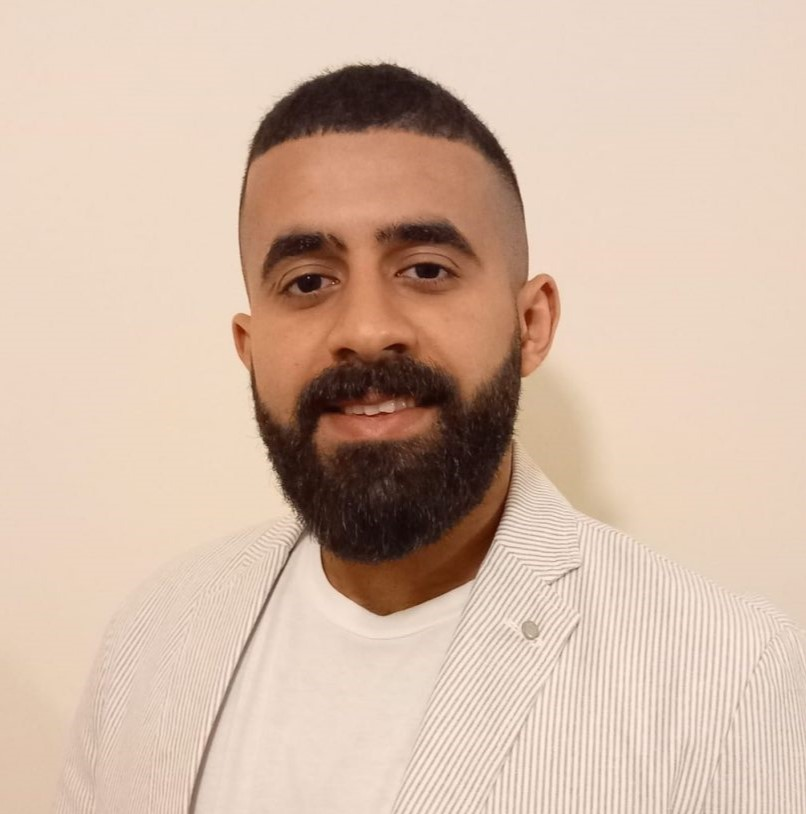
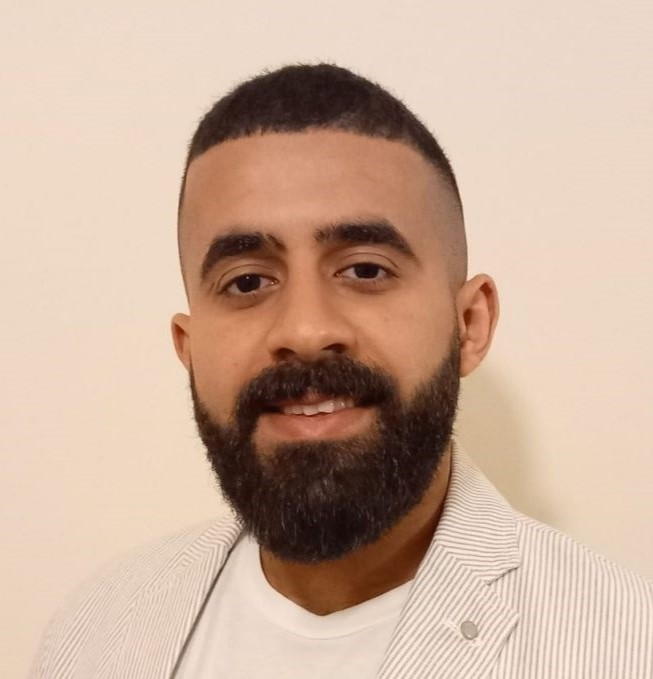
-added new coordinator

diff --git a/contact/contact.css b/contact/contact.css
@@ -10,7 +10,7 @@
     --white: #ffffff;
     --text-primary: #1a1a2e;
     --text-secondary: #555555;
-    --accent-gold: #c9a84c;
+    --accent-gold: #faa237;
     --border: #e0e4ec;
     --shadow-sm: 0 2px 8px rgba(0, 0, 0, 0.06);
     --shadow-md: 0 8px 24px rgba(0, 0, 0, 0.08);
@@ -463,137 +463,77 @@ a.quick-card-link:hover {
     margin-top: 60px;
 }
 
-.coordinator-cards {
-    display: grid;
-    grid-template-columns: repeat(2, 1fr);
-    gap: 32px;
-    max-width: 800px;
-    margin: 0 auto;
+.coordinator-cards{
+    display:grid;
+    grid-template-columns:repeat(3,3fr);
+    gap:30px;
+    max-width:1500px;
+    margin:0;
 }
 
-.coordinator-card {
-    background: var(--white);
-    border-radius: var(--radius-md);
-    overflow: hidden;
-    box-shadow: var(--shadow-card);
-    transition: var(--transition);
-    border: 1px solid var(--border);
+.coordinator-card{
+    display:flex;
+    align-items:center;
+    gap:20px;
+    background:white;
+    padding:20px;
+    border-radius:16px;
+    box-shadow:0 6px 20px rgba(0,0,0,0.06);
+    transition:0.3s ease;
 }
 
-.coordinator-card:hover {
-    transform: translateY(-6px);
-    box-shadow: var(--shadow-lg);
+.coordinator-card:hover{
+    transform:translateY(-4px);
+    box-shadow:0 12px 35px rgba(0,0,0,0.12);
 }
 
-.coordinator-card-top {
-    position: relative;
-    height: 140px;
-    overflow: visible;
+.coordinator-photo{
+    width:120px;
+    height:120px;
+    flex-shrink:0;
+    border-radius:14px;
+    overflow:hidden;
 }
 
-.coordinator-pattern {
-    position: absolute;
-    inset: 0;
-    background-size: cover;
-    background-position: center;
-    opacity: 0.25;
-    overflow: hidden;
+.coordinator-photo img{
+    width:100%;
+    height:100%;
+    object-fit:cover;
 }
 
-.coordinator-card-top::after {
-    content: '';
-    position: absolute;
-    inset: 0;
-    background: linear-gradient(135deg, var(--primary), var(--primary-light));
-    opacity: 0.9;
+.coordinator-info h3{
+    font-size:18px;
+    margin-bottom:4px;
 }
 
-.coordinator-avatar {
-    position: absolute;
-    bottom: -32px;
-    left: 50%;
-    transform: translateX(-50%);
-    z-index: 2;
-    width: 72px;
-    height: 72px;
-    border-radius: 50%;
-    background: var(--primary);
-    border: 4px solid var(--white);
-    display: flex;
-    align-items: center;
-    justify-content: center;
-    box-shadow: var(--shadow-md);
+.coordinator-role{
+    font-size:14px;
+    color:#013b7c;
+    font-weight:600;
 }
 
-.coordinator-avatar img {
-    width: 100%;
-    height: 100%;
-    object-fit: cover;
-    border-radius: 50%;
+.coordinator-socials{
+    margin-top:12px;
+    display:flex;
+    gap:10px;
 }
 
-.coordinator-card:hover .coordinator-avatar img {
-    transform: scale(1.05);
+.coordinator-socials a{
+    width:34px;
+    height:34px;
+    border-radius:50%;
+    display:flex;
+    align-items:center;
+    justify-content:center;
+    background:#f1f3f7;
+    color:#013b7c;
+    font-size:14px;
+    transition:0.25s;
 }
 
-.coordinator-avatar img {
-    transition: transform 0.3s ease;
-}
-
-.avatar-initials {
-    font-size: 22px;
-    font-weight: 700;
-    color: var(--white);
-    letter-spacing: 1px;
-}
-
-.coordinator-info {
-    padding: 48px 24px 28px;
-    text-align: center;
-}
-
-.coordinator-info h3 {
-    font-size: 20px;
-    font-weight: 700;
-    color: var(--text-primary);
-    margin-bottom: 4px;
-}
-
-.coordinator-role {
-    display: inline-block;
-    font-size: 14px;
-    color: var(--primary);
-    font-weight: 600;
-    margin-bottom: 16px;
-    padding: 4px 14px;
-    background: rgba(var(--primary-rgb), 0.06);
-    border-radius: 50px;
-}
-
-.coordinator-socials {
-    display: flex;
-    gap: 10px;
-    justify-content: center;
-}
-
-.coordinator-socials a {
-    width: 38px;
-    height: 38px;
-    border-radius: 50%;
-    display: flex;
-    align-items: center;
-    justify-content: center;
-    background: rgba(var(--primary-rgb), 0.06);
-    color: var(--primary);
-    font-size: 15px;
-    transition: var(--transition);
-}
-
-.coordinator-socials a:hover {
-    background: var(--primary);
-    color: var(--white);
-    transform: translateY(-3px);
-    box-shadow: 0 4px 12px rgba(var(--primary-rgb), 0.3);
+.coordinator-socials a:hover{
+    background:#013b7c;
+    color:white;
 }
 
 /* ========================================

diff --git a/contact/contact.html b/contact/contact.html
@@ -20,8 +20,7 @@
         <div class="logo">
             <div class="logo-container">
                 <a href="../index.html" class="unique">
-                    <img src="istanbul-aydin-university.png" alt="Istanbul Aydin University"
-                        class="logo-university">
+                    <img src="istanbul-aydin-university.png" alt="Istanbul Aydin University" class="logo-university">
                 </a>
             </div>
         </div>
@@ -111,7 +110,9 @@
         <div class="hero-content">
             <div class="hero-badge animate-on-scroll">Get In Touch</div>
             <h1 class="hero-title animate-on-scroll">Contact <span class="highlight">Us</span></h1>
-            <p class="hero-subtitle animate-on-scroll">Your journey toward turning thoughts into reality starts here. Whether it's a partnership proposal, a curious question, or a friendly hello — we're excited to hear from you.</p>
+            <p class="hero-subtitle animate-on-scroll">Your journey toward turning thoughts into reality starts here.
+                Whether it's a partnership proposal, a curious question, or a friendly hello — we're excited to hear
+                from you.</p>
             <a href="#coordinators" class="hero-cta animate-on-scroll">
                 <span>Contact Us</span>
                 <i class="fas fa-arrow-down"></i>
@@ -129,7 +130,8 @@
                     </div>
                     <h3>Email Us</h3>
                     <p>Drop us a line anytime</p>
-                    <a class="quick-card-link"><span class="__cf_email__" data-cfemail="a6c2c3cacfc1ced2c0d3cae6c7dfc2cfc888c3c2d388d2d4">[email redacted]</span></a>
+                    <a class="quick-card-link"><span class="__cf_email__"
+                            data-cfemail="a6c2c3cacfc1ced2c0d3cae6c7dfc2cfc888c3c2d388d2d4">[email redacted]</span></a>
                 </div>
                 <div class="quick-card animate-on-scroll" data-delay="100">
                     <div class="quick-card-icon">
@@ -146,8 +148,10 @@
                     <h3>Follow Us</h3>
                     <p>Stay connected</p>
                     <div class="quick-card-socials">
-                        <a href="https://www.facebook.com/delightful.istanbul" target="_blank" aria-label="Facebook"><i class="fab fa-facebook-f"></i></a>
-                        <a href="https://instagram.com/delightful.istanbul" target="_blank" aria-label="Instagram"><i class="fab fa-instagram"></i></a>
+                        <a href="https://www.facebook.com/delightful.istanbul" target="_blank" aria-label="Facebook"><i
+                                class="fab fa-facebook-f"></i></a>
+                        <a href="https://instagram.com/delightful.istanbul" target="_blank" aria-label="Instagram"><i
+                                class="fab fa-instagram"></i></a>
                     </div>
                 </div>
             </div>
@@ -155,50 +159,67 @@
     </section>
 
     <!-- Coordinators Section -->
-    <section class="coordinators" id="coordinators"style="background-color:#f8f9fa;">
+    <section class="coordinators" id="coordinators" style="background-color:#f8f9fa;">
         <div class="container">
             <div class="section-header animate-on-scroll">
                 <span class="section-tag">Our Team</span>
                 <h2 class="section-title">Program Coordinators</h2>
-                <p class="section-desc">Meet the people behind Delightful Istanbul who are ready to assist you on your journey.</p>
+                <p class="section-desc">Meet the people behind Delightful Istanbul who are ready to assist you on your
+                    journey.</p>
             </div>
             <div class="coordinator-cards">
                 <div class="coordinator-card animate-on-scroll" data-delay="0">
-                    <div class="coordinator-card-top">
-                        <div class="coordinator-avatar">
-                            <img src="OuOkGLfk.jpg" alt="Gürkan Donat">
-                        </div>
-                        <div class="coordinator-pattern" style="background-image: url(https://mgx-backend-cdn.metadl.com/generate/images/836390/2026-03-03/971195c9-7b93-4e1a-bb96-9bbf00a1e0da.png);"></div>
+
+                    <div class="coordinator-photo">
+                        <img src="Gurkan.jpeg" alt="Gürkan Donat">
                     </div>
+
                     <div class="coordinator-info">
                         <h3>Gürkan Donat</h3>
                         <span class="coordinator-role">Program Coordinator</span>
+
                         <div class="coordinator-socials">
-                            <a href="#" aria-label="Facebook"><i class="fab fa-facebook-f"></i></a>
-                            <a href="https://www.instagram.com/gurkandonat/" target="_blank" aria-label="Instagram"><i class="fab fa-instagram"></i></a>
-                            <a href="/cdn-cgi/l/email-protection#f19684839a909f959e9f9085b1908895989fdf949584df8583" aria-label="Email"><i class="fas fa-envelope"></i></a>
-                            <a href="#" aria-label="LinkedIn"><i class="fab fa-linkedin-in"></i></a>
+                            <a href="#"><i class="fas fa-envelope"></i></a>
+                            <a href="#"><i class="fab fa-linkedin-in"></i></a>
                         </div>
                     </div>
+
                 </div>
-                <div class="coordinator-card animate-on-scroll" data-delay="150">
-                    <div class="coordinator-card-top">
-                        <div class="coordinator-avatar">
-                            <img src="WhatsApp-Image-2023-03-22-at-08.11.44-2-980x1024-1.jpeg" alt="yazid munsari">
-                        </div>
-                        <div class="coordinator-pattern" style="background-image: url('https://mgx-backend-cdn.metadl.com/generate/images/836390/2026-03-03/971195c9-7b93-4e1a-bb96-9bbf00a1e0da.png');"></div>
+                <div class="coordinator-card animate-on-scroll" data-delay="0">
+
+                    <div class="coordinator-photo">
+                        <img src="WhatsApp-Image-2023-03-22-at-08.11.44-2-980x1024-1.jpeg" alt="Gürkan Donat">
                     </div>
+
                     <div class="coordinator-info">
-                        <h3>Yazid Munsari</h3>
-                        <span class="coordinator-role">Program Assist. Coordinator</span>
+                        <h3>Gürkan Donat</h3>
+                        <span class="coordinator-role">Program Coordinator</span>
+
                         <div class="coordinator-socials">
-                            <a href="#" aria-label="Facebook"><i class="fab fa-facebook-f"></i></a>
-                            <a href="https://www.instagram.com/yazidmunsari/" target="_blank" aria-label="Instagram"><i class="fab fa-instagram"></i></a>
-                            <a href="/cdn-cgi/l/email-protection#2c554d5645484159425f4d5e456c4d554845420249485902585e" aria-label="Email"><i class="fas fa-envelope"></i></a>
-                            <a href="#" aria-label="LinkedIn"><i class="fab fa-linkedin-in"></i></a>
+                            <a href="#"><i class="fas fa-envelope"></i></a>
+                            <a href="#"><i class="fab fa-linkedin-in"></i></a>
+                        </div>
+                    </div>
+
+                </div>
+
+                <div class="coordinator-card animate-on-scroll" data-delay="0">
+
+                    <div class="coordinator-photo">
+                        <img src="OuOkGLfk.jpg" alt="Gürkan Donat">
+                    </div>
+
+                    <div class="coordinator-info">
+                        <h3>Gürkan Donat</h3>
+                        <span class="coordinator-role">Program Coordinator</span>
+
+                        <div class="coordinator-socials">
+                            <a href="#"><i class="fas fa-envelope"></i></a>
+                            <a href="#"><i class="fab fa-linkedin-in"></i></a>
                         </div>
                     </div>
                 </div>
+
             </div>
         </div>
     </section>
@@ -215,13 +236,8 @@
                 <div class="map-container-full">
                     <iframe
                         src="https://www.google.com/maps/embed?pb=!1m18!1m12!1m3!1d3011.6504900907384!2d28.79497631541!3d40.99155297930!2m3!1f0!2f0!3f0!3m2!1i1024!2i768!4f13.1!3m3!1m2!1s0x14caa5a0c9e0a9e7%3A0x8e0e3e1e1e1e1e1e!2sIstanbul%20Aydin%20University!5e0!3m2!1sen!2str!4v1700000000000!5m2!1sen!2str"
-                        width="100%"
-                        height="100%"
-                        style="border:0;"
-                        allowfullscreen=""
-                        loading="lazy"
-                        referrerpolicy="no-referrer-when-downgrade"
-                        title="Istanbul Aydin University Location">
+                        width="100%" height="100%" style="border:0;" allowfullscreen="" loading="lazy"
+                        referrerpolicy="no-referrer-when-downgrade" title="Istanbul Aydin University Location">
                     </iframe>
                 </div>
                 <div class="map-info-full">
@@ -284,6 +300,7 @@
         </div>
     </footer>
 
-    <script data-cfasync="false" src="/cdn-cgi/scripts/5c5dd728/cloudflare-static/email-decode.min.js"></script><script src="./contact.js"></script>
+    <script data-cfasync="false" src="/cdn-cgi/scripts/5c5dd728/cloudflare-static/email-decode.min.js"></script>
+    <script src="./contact.js"></script>
 
-    </body>
+</body>